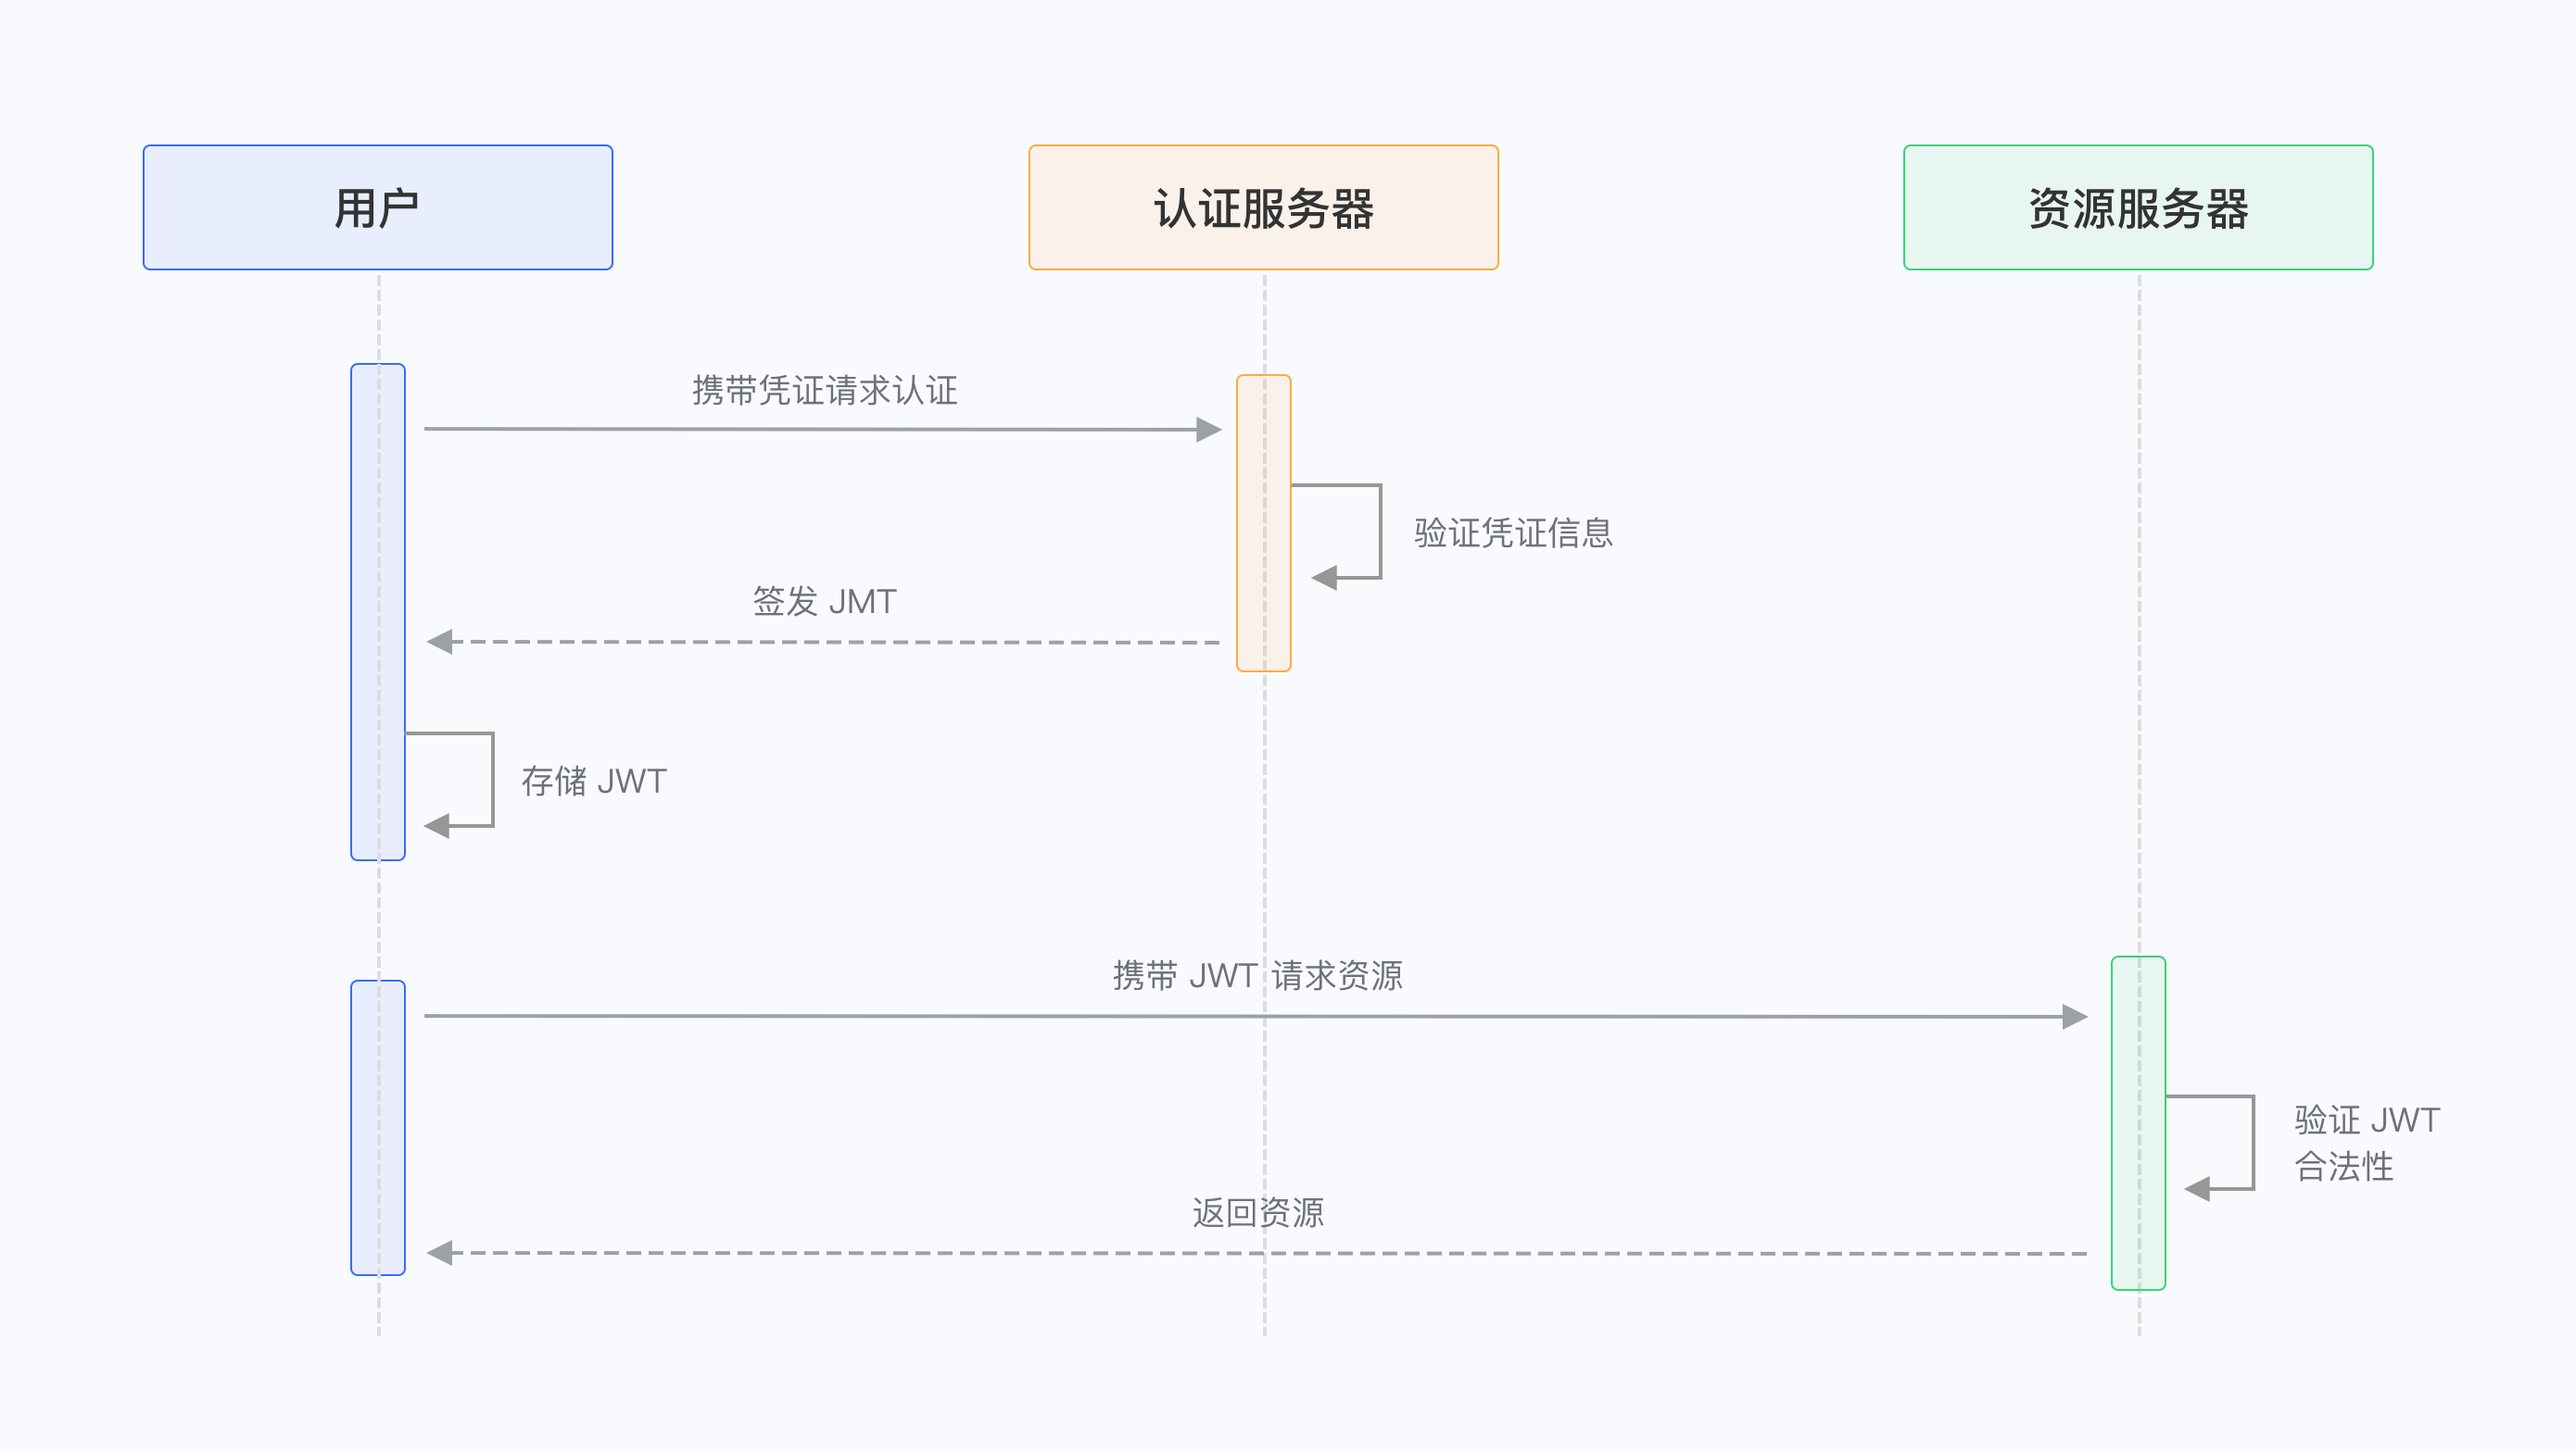
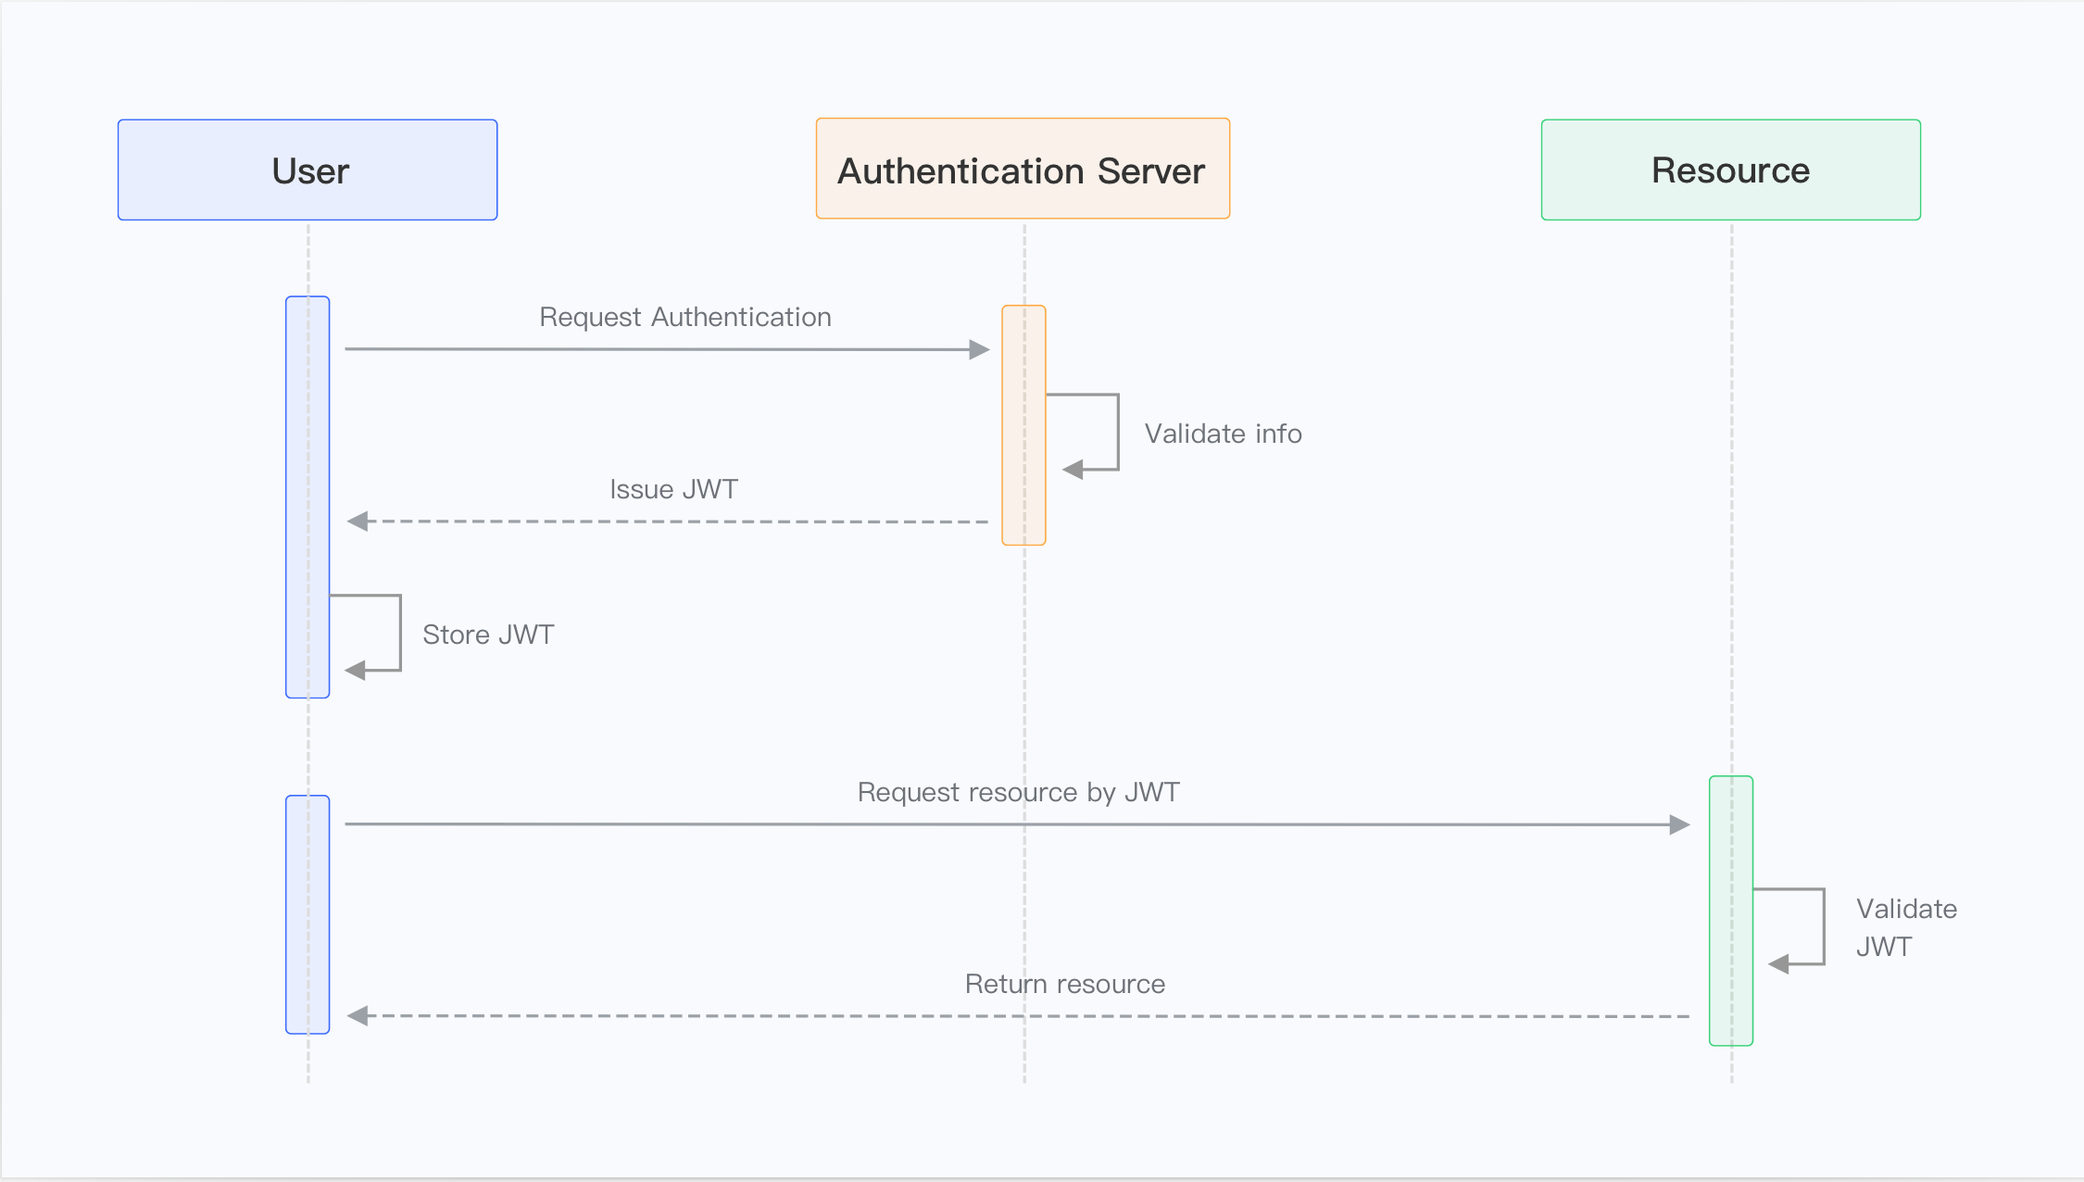
jwt pic update

diff --git a/docs/concepts/jwt-token.md b/docs/concepts/jwt-token.md
@@ -16,7 +16,7 @@ For details, please refer to this article: [What is JWT](https://www.jianshu.com
 
 ## Verification Flow
 
-![](~@imagesEnUs/concepts/jwt-flow-en.png)
+![](~@imagesEnUs/concepts/jwt-flow.png)
 
 ### User Authentication Process
 
